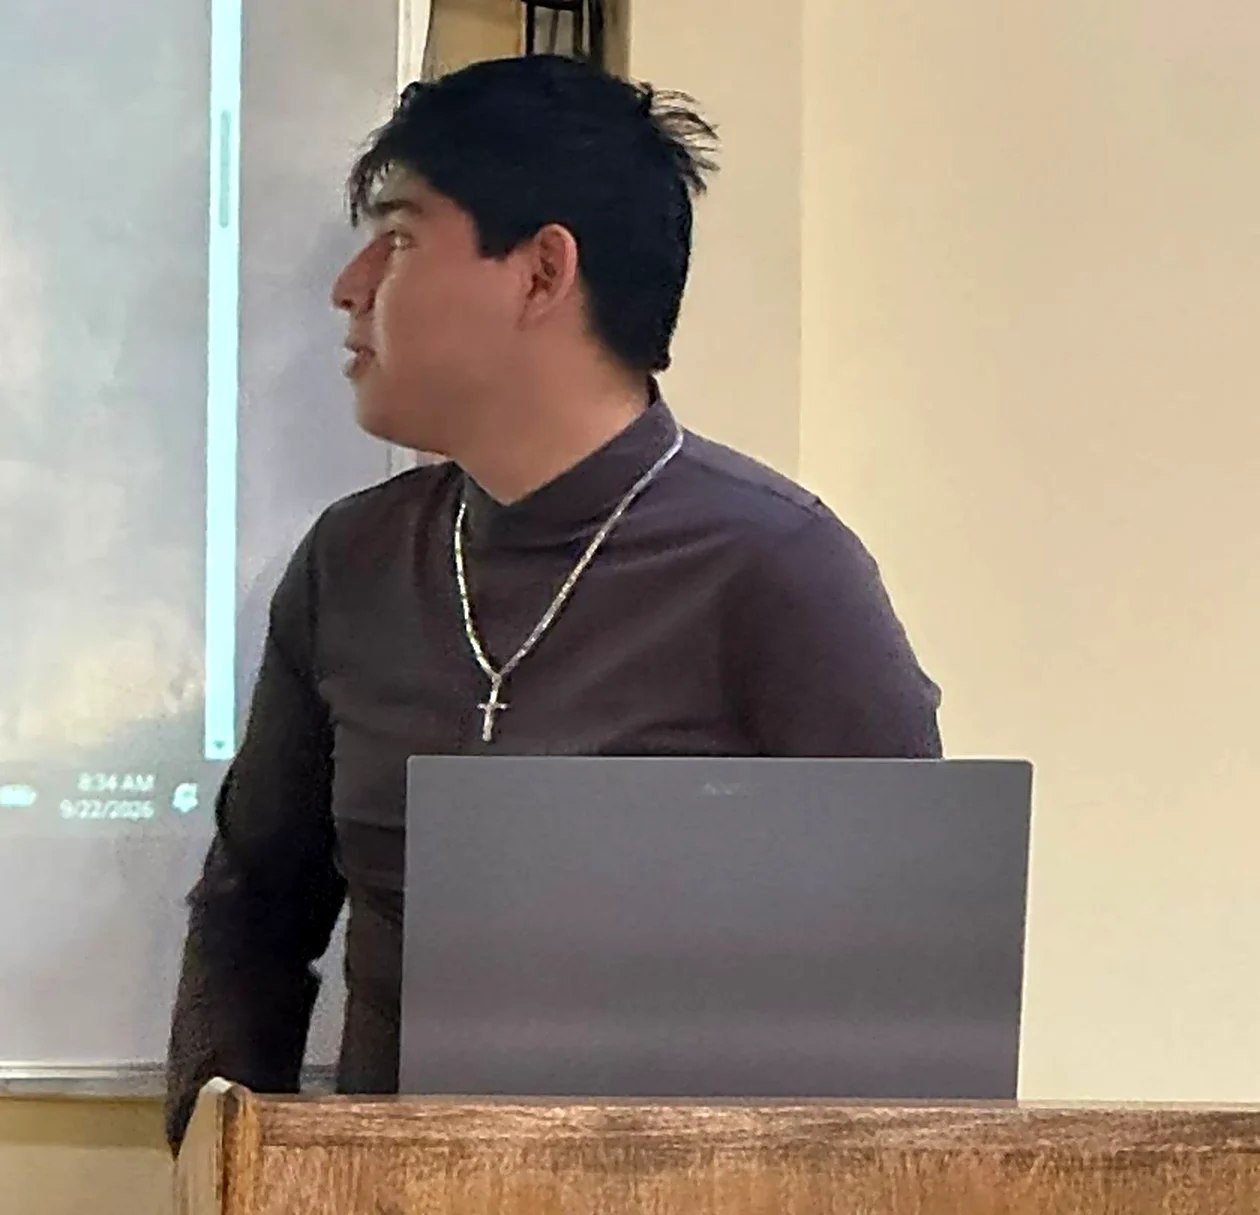
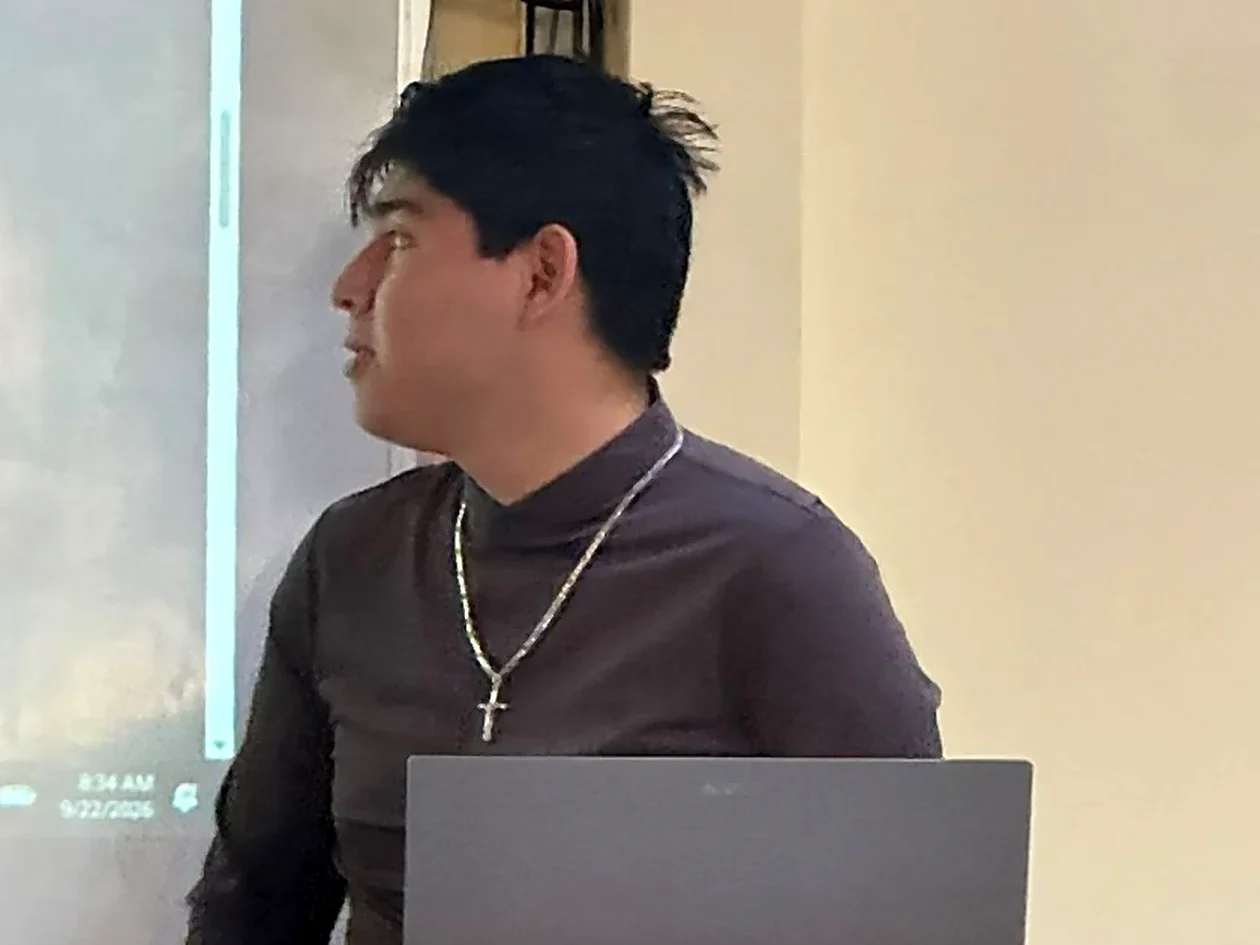
refactor: Quita las materias repetidas de la etapa de cátedra y recorta su foto

diff --git a/src/features/timeline/molecules/TimelinePanel.jsx b/src/features/timeline/molecules/TimelinePanel.jsx
@@ -1,7 +1,6 @@
 import {MapPin} from 'lucide-react';
 import ImageGallery from '../../../components/ui/ImageGallery';
 import TechList from '../../../components/ui/TechList';
-import IconList from '../../../components/ui/IconList';
 import ArchitectureDiagram from '../../../components/ui/ArchitectureDiagram';
 import StopIndex from '../../journey/molecules/StopIndex';
 import ProjectPreviewCard from '../../projects/molecules/ProjectPreviewCard';
@@ -57,7 +56,6 @@ function TimelineAside({entry, relatedProjects}) {
       {entry.architecture && <ArchitectureDiagram title={entry.architecture.title} layers={entry.architecture.layers} />}
       {entry.architecture && <StopIndex items={relatedProjects} />}
       {!entry.architecture && <RelatedProjects projects={relatedProjects} />}
-      {entry.subjects && <IconList items={entry.subjects} />}
     </div>
   );
 }

diff --git a/src/data/timeline.js b/src/data/timeline.js
@@ -60,10 +60,6 @@ export const TIMELINE = [
     ],
     tags: ['Algoritmos', 'Teoría de Grafos'],
     photos: [{src: 'timeline/catedra.webp', caption: 'Exponiendo frente al curso en la facultad'}],
-    subjects: [
-      {icon: 'Algoritmos', title: 'Introducción a la Programación', meta: 'Algoritmos y lógica de programación'},
-      {icon: 'Teoría de Grafos', title: 'Teoría de Grafos', meta: 'Laboratorios y corrección de exámenes'},
-    ],
   },
   {
     period: '2024',

diff --git a/src/features/timeline/hooks/useTimelineIndex.js b/src/features/timeline/hooks/useTimelineIndex.js
@@ -20,7 +20,7 @@ function useTimelineIndex() {
       meta: entry.period,
       icon: TIMELINE_TYPE_ICONS[entry.type],
       relatedProjects,
-      hasAside: Boolean(entry.photos || entry.subjects || entry.architecture) || relatedProjects.length > 0,
+      hasAside: Boolean(entry.photos || entry.architecture) || relatedProjects.length > 0,
     };
   }), [timelineStops, projectIndex]);
 }

diff --git a/src/features/timeline/molecules/TimelinePanel.stories.jsx b/src/features/timeline/molecules/TimelinePanel.stories.jsx
@@ -36,7 +36,7 @@ export const Freelance = {
   },
 };
 
-export const WithSubjects = {
+export const Teaching = {
   args: {entry: teaching, relatedProjects: []},
 };
 
